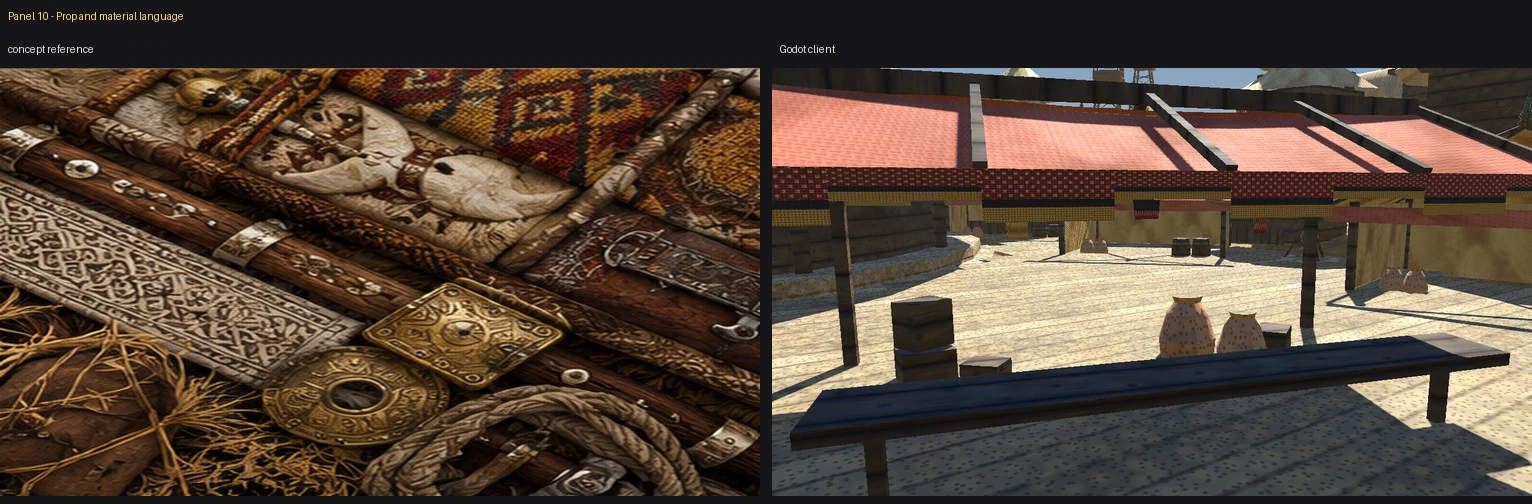
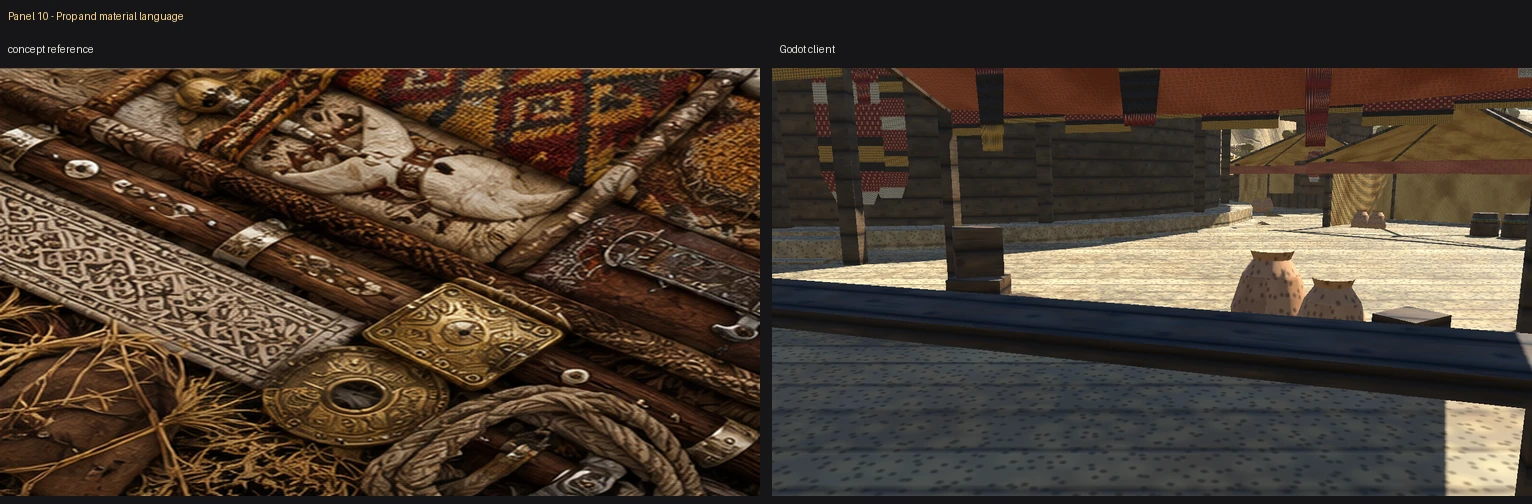
fix(maps): frame the concept comparison views on their subjects
Four of the ten panel framings were shooting through a structure or past the
landmark they were meant to show: the caravan road view was pressed against
the south caravanserai wall, the well view framed a shrine, the market prop
view looked at a canopy underside, and the standing stones were compared
against a daylight capture when the reference is painted at dusk.

Framings are derived from the exported landmark positions and expressed as
ground-relative eye and aim points, so they stay correct if the landform is
resculpted. Panel 8 now pairs with the golden-hour capture.

Claude-Session: https://claude.ai/code/session_01S5AZhVY23Lk8QTzSJPMxrt

diff --git a/eloria-assets/tools/sunmane/views.py b/eloria-assets/tools/sunmane/views.py
@@ -24,15 +24,15 @@ PACKAGE = Path(__file__).resolve().parents[2] / "maps" / "nymara-regions" / "sun
 # stay correct if the landform is resculpted:
 #   id, (eye x, eye z, eye height), (aim x, aim z, aim height), fov, note
 PLACED = [
-    ("p01-caravan-road", (14.0, 70.0, 4.6), (5.0, 38.0, 3.0), 50.0,
-     "caravan road with the encampment on the skyline"),
+    ("p01-caravan-road", (26.0, 46.0, 2.6), (4.0, 20.0, 7.0), 54.0,
+     "crop block and riding trail with the encampment on the skyline"),
     ("p03-seasonal-market", (0.0, 20.0, 5.6), (0.0, 1.0, 3.4), 55.0,
      "seasonal market with the great hall behind"),
     ("p05-caravanserai-gate", (-6.0, 40.0, 4.4), (-1.0, 25.5, 3.6), 48.0,
      "fortified gate bay and palisade from the road"),
-    ("p07-well-and-pens", (-27.0, 22.0, 4.2), (-33.5, 29.5, 1.6), 48.0,
+    ("p07-well-and-pens", (-28.5, 25.5, 2.4), (-33.0, 30.0, 1.3), 46.0,
      "well, trough and horse paddocks"),
-    ("p10-market-props", (5.0, 12.5, 2.4), (8.5, 7.6, 1.4), 42.0,
+    ("p10-market-props", (8.6, 12.4, 1.7), (8.6, 8.6, 1.0), 40.0,
      "player-scale market goods and prop language"),
     ("p02-round-tent-camp", (-25.0, -35.0, 4.0), (-33.5, -44.5, 2.2), 48.0,
      "Orun round-tent camp"),
@@ -58,8 +58,8 @@ VIEWS = [
      "windmill over the crop block"),
     ("p07-well-and-pens", "Landmark_sunmane_well_01", -13.0, 118.0, 17.0, 48.0,
      "well and horse paddocks"),
-    ("p08-standing-stones", (-44.0, 10.0, -18.0), -10.0, 142.0, 22.0, 46.0,
-     "standing stone circle"),
+    ("p08-standing-stones", (-44.0, 12.0, -18.0), -7.0, 108.0, 21.0, 44.0,
+     "standing stone circle against the low sun"),
     ("p09-steppe-overlook", (0.0, 9.5, -4.0), -15.0, 212.0, 88.0, 55.0,
      "rider's overlook above the encampment"),
     ("p10-market-props", (8.5, 10.2, 8.0), -14.0, 172.0, 11.0, 42.0,
@@ -85,6 +85,8 @@ VIEWS = [
      "maximum client zoom-out over the encampment"),
 ]
 
+# Panels 8 and 9 are painted at golden hour, so those two are captured under the
+# declared golden-hour environment variant as well as under daylight.
 GOLDEN = ["p08-standing-stones", "p09-steppe-overlook", "aerial-overview",
           "p01-caravan-road"]
 

diff --git a/eloria-assets/tools/sunmane/comparison.py b/eloria-assets/tools/sunmane/comparison.py
@@ -30,7 +30,7 @@ PANELS = [
     (4, "p05-caravanserai-gate", "Fortified gate"),
     (5, "p06-windmill", "Windmill and crop block"),
     (6, "p07-well-and-pens", "Well and horse pens"),
-    (7, "p08-standing-stones", "Standing stones"),
+    (7, "golden-p08-standing-stones", "Standing stones at golden hour"),
     (8, "p09-steppe-overlook", "Steppe overlook"),
     (9, "p10-market-props", "Prop and material language"),
 ]

diff --git a/eloria-assets/maps/nymara-regions/sunmane_steppe/landmark-checklist.md b/eloria-assets/maps/nymara-regions/sunmane_steppe/landmark-checklist.md
@@ -143,4 +143,10 @@ Stated plainly rather than glossed:
    golden hour under the default daylight profile. The declared `golden-hour`
    environment variant is closer to the reference; daylight was chosen as the
    default because it keeps the playable scene readable rather than muddy, which
-   the brief asks for explicitly.
+   the brief asks for explicitly. Panel 8 is compared against the golden-hour
+   capture, since its reference is painted at dusk.
+6. **Panel 10 is compared at stall scale, not macro.** Its reference is an
+   extreme close-up of tack, bone, buckles and woven cloth - a framing no
+   gameplay camera reaches. The comparison uses the nearest view a player can
+   actually stand in, which shows the same material language on the market
+   counter, pottery, crates, pennants and awning.
